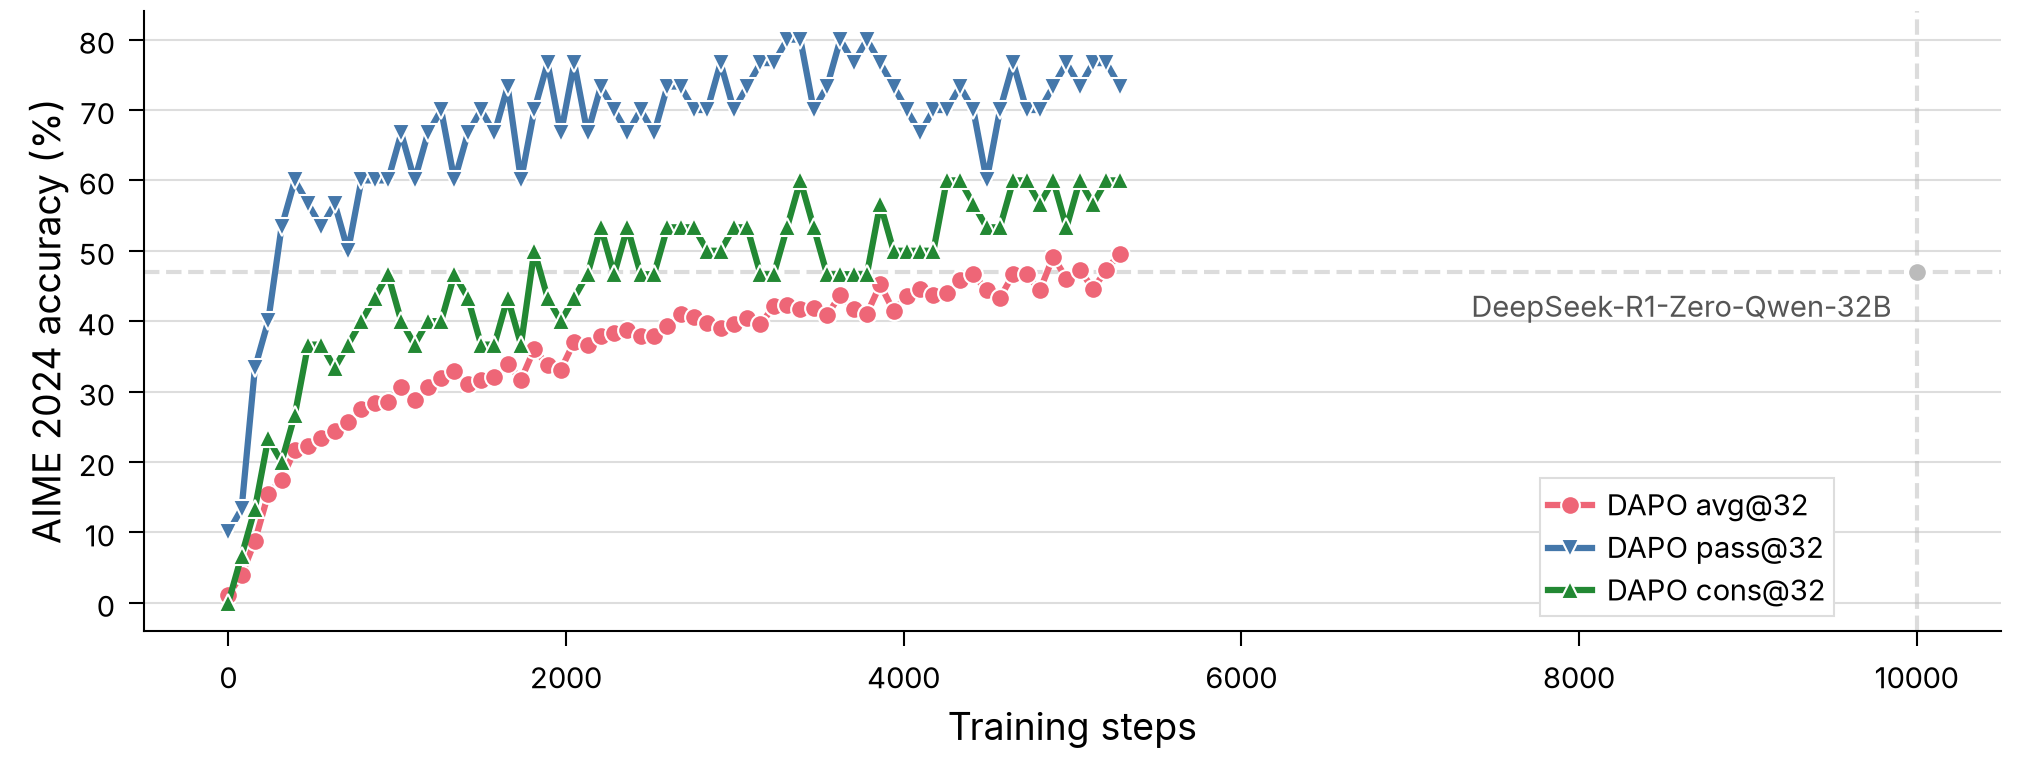
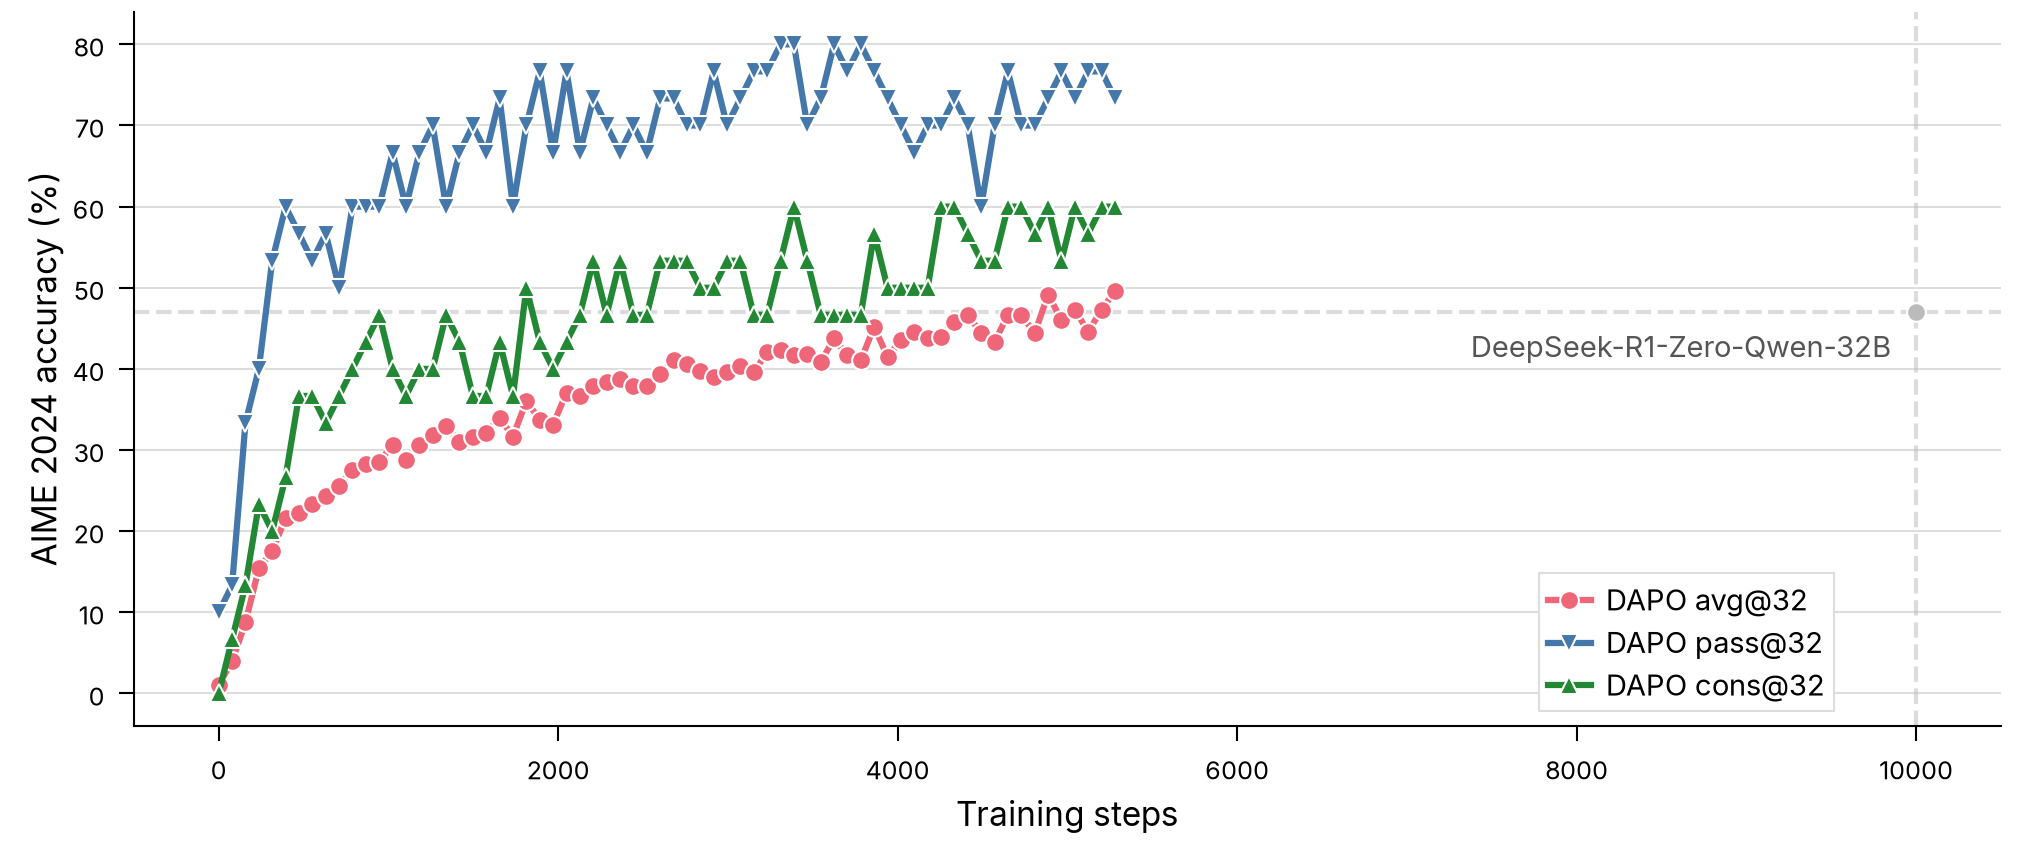
academic-figure: golden-ratio panels, smaller text, on-the-page comparison
- Panel aspects built on the golden ratio: φ:1 (default), φ²:1, 1:φ, plus 1:1
- Axis labels 8 pt, ticks 6 pt, titles 9 pt
- examples/academic-figure-pages.py: each DAPO page with the redrawn figure
  dropped in at \textwidth, next to the original page

diff --git a/examples/academic-figure-pages.py b/examples/academic-figure-pages.py
@@ -1,0 +1,54 @@
+"""Put the redrawn figures into the DAPO paper's pages, next to the original pages.
+
+Each figure is replaced at the width LaTeX would give it (\\textwidth, or 0.75\\textwidth for 1.5 column);
+the text below moves down by however much taller or shorter the new figure is.
+Run after academic-figure.py: uv run -p 3.12 --with pymupdf python examples/academic-figure-pages.py
+"""
+import tempfile
+import urllib.request
+from pathlib import Path
+
+import pymupdf
+
+OUT = Path(__file__).parent / "academic-figure"
+TEXT_LEFT, TEXT_RIGHT = 70.9, 541.1  # the paper's text block, in points
+DPI = 150
+
+# figure number: (page index, top of the caption, fraction of \textwidth)
+FIGURES = {1: (0, 696, 1), 2: (2, 280, 1), 3: (4, 280, 1), 4: (5, 280, 1),
+           5: (6, 280, 1), 6: (7, 274, 0.75), 7: (9, 426, 1)}
+
+
+def figure_top(page, caption_top):
+    backgrounds = [d["rect"] for d in page.get_drawings()
+                   if d.get("fill") == (1.0, 1.0, 1.0) and d.get("color") is None
+                   and d["rect"].height > 80 and d["rect"].y1 <= caption_top]
+    if page.number == 0:  # the first page also has a white box behind the abstract
+        backgrounds = [r for r in backgrounds if r.y0 > 500]
+    return min(r.y0 for r in backgrounds)
+
+
+pdf_path = Path(tempfile.gettempdir()) / "dapo-2503.14476.pdf"
+if not pdf_path.exists():
+    urllib.request.urlretrieve("https://arxiv.org/pdf/2503.14476", pdf_path)
+paper = pymupdf.open(pdf_path)
+
+for n, (index, caption_top, fraction) in FIGURES.items():
+    page = paper[index]
+    page.get_pixmap(dpi=DPI).save(OUT / f"page{n}-before.png")
+
+    top, bottom = figure_top(page, caption_top), caption_top - 4
+    image = OUT / f"fig{n}-after.png"
+    pixmap = pymupdf.Pixmap(str(image))
+    width = (TEXT_RIGHT - TEXT_LEFT) * fraction
+    height = width * pixmap.height / pixmap.width
+    left = (page.rect.width - width) / 2
+
+    out = pymupdf.open()
+    new = out.new_page(width=page.rect.width, height=page.rect.height)
+    new.show_pdf_page(pymupdf.Rect(0, 0, page.rect.width, top), paper, index,
+                      clip=pymupdf.Rect(0, 0, page.rect.width, top))
+    new.insert_image(pymupdf.Rect(left, top, left + width, top + height), filename=str(image))
+    rest = pymupdf.Rect(0, bottom, page.rect.width, page.rect.height)
+    new.show_pdf_page(rest + (0, top + height - bottom, 0, top + height - bottom), paper, index, clip=rest)
+    new.get_pixmap(dpi=DPI).save(OUT / f"page{n}-after.png")

diff --git a/test_paper.py b/test_paper.py
@@ -34,7 +34,7 @@ def test_single_line():
     ax.plot([0, 1], [0, 1])
     ax.set_xlabel("x")
     ax.set_ylabel("y")
-    check(fig, fit_height(fig, ax), 2 / 3)
+    check(fig, fit_height(fig, ax), 0.618)
 
 
 def test_two_panels_shared_legend():
@@ -45,7 +45,7 @@ def test_two_panels_shared_legend():
         ax.set_title("T")
     fig.legend(*axes[0].get_legend_handles_labels(), loc="outside lower center", ncol=2,
                frameon=False, borderaxespad=0)
-    check(fig, fit_height(fig, axes), 2 / 3)
+    check(fig, fit_height(fig, axes), 0.618)
 
 
 def test_grid_with_empty_cell():
@@ -55,7 +55,7 @@ def test_grid_with_empty_cell():
     axes[1, 1].axis("off")
     ratios = fit_height(fig, axes)
     assert len(ratios) == 3
-    check(fig, ratios, 2 / 3)
+    check(fig, ratios, 0.618)
 
 
 def test_heatmap_colorbar():
@@ -83,11 +83,11 @@ def test_long_labels_converge():
     ax.plot([0, 1], [0, 1_000_000])
     ax.set_yticks([0, 500_000, 1_000_000], ["0", "500,000", "1,000,000"], fontsize=12)
     ax.set_ylabel("A very long y-axis label\nthat spans two lines")
-    check(fig, fit_height(fig, ax), 2 / 3)
+    check(fig, fit_height(fig, ax), 0.618)
 
 
 def test_aspect_options():
-    for aspect in (1 / 3, 1.0, 1.5):
+    for aspect in (0.382, 1.0, 1.618):
         fig, ax = plt.subplots(figsize=(WIDTH, 3))
         ax.plot([0, 1], [0, 1])
         check(fig, fit_height(fig, ax, aspect=aspect), aspect)
@@ -100,7 +100,7 @@ def test_ticks_that_change_with_height_converge():
     ax.set_ylim(78, 95)
     ratios = fit_height(fig, ax)
     assert fig.get_figwidth() == 3.0
-    assert abs(ratios[0] - 2 / 3) / (2 / 3) < 0.005
+    assert abs(ratios[0] - 0.618) / 0.618 < 0.005
     assert ax.get_ylim() == (78, 95)
 
 
@@ -108,7 +108,7 @@ def test_shared_axes():
     fig, axes = plt.subplots(2, 2, figsize=(WIDTH, 3), sharex=True, sharey=True)
     for i, ax in enumerate(axes.flat):
         ax.plot([0, 1], [0, i + 1])
-    check(fig, fit_height(fig, axes), 2 / 3)
+    check(fig, fit_height(fig, axes), 0.618)
 
 
 def test_pdf_embeds_inter_as_text(tmp_path):

diff --git a/examples/academic-figure.py b/examples/academic-figure.py
@@ -81,7 +81,7 @@ def fig1():
     ax.set_xlabel("Training steps")
     ax.set_ylabel("AIME 2024 accuracy (%)")
     ax.legend(loc="lower right", bbox_to_anchor=(9600, 0), bbox_transform=ax.get_xaxis_transform())
-    fit_height(fig, ax, aspect=1 / 3)
+    fit_height(fig, ax, aspect=0.382)
     save(fig, "fig1")
 
 
@@ -107,7 +107,7 @@ def fig6():
     ax.set_xlabel("Training steps")
     ax.set_ylabel("AIME avg@32")
     ax.legend(loc="lower right")
-    fit_height(fig, ax, aspect=1 / 3)
+    fit_height(fig, ax, aspect=0.382)
     save(fig, "fig6")
 
 

diff --git a/skills/academic-figure/assets/paper.py b/skills/academic-figure/assets/paper.py
@@ -41,7 +41,7 @@ def _freeze_ticks(panels):
             axis.set_major_locator(FixedLocator([t for t in axis.get_majorticklocs() if lo <= t <= hi]))
 
 
-def fit_height(fig, ax, aspect=2 / 3, iters=10, tol=0.005):
+def fit_height(fig, ax, aspect=0.618, iters=10, tol=0.005):
     """Change only the figure height so each panel's height / width equals `aspect`.
 
     The panel is the data area inside the axes spines; tick labels, axis labels, titles,

diff --git a/skills/academic-figure/SKILL.md b/skills/academic-figure/SKILL.md
@@ -24,17 +24,17 @@ Apply every rule unless the user says otherwise. Order: size → style → plot 
 
 ### Grid and panel aspect
 
-Choose the grid (rows × cols) and the panel aspect together, by judgment, for what this data needs to show. Use 3:2 unless the content needs another aspect. The aspect (width : height) is per panel, not for the whole figure, and is one of four:
+Choose the grid (rows × cols) and the panel aspect together, by judgment, for what this data needs to show. Use the golden ratio φ : 1 (φ ≈ 1.618) unless the content needs another aspect. The aspect (width : height) is per panel, not for the whole figure, and is one of four, all built on φ except the square:
 
 | Aspect | `aspect=` | Typical fit |
 |---|---|---|
-| 6 : 2 | 1 / 3 | a single panel at 1.5- or double-column width (curves, bars) |
-| 3 : 2 | 2 / 3 | curves, bars, histograms (default) |
+| φ² : 1 | 0.382 | a single panel at 1.5- or double-column width (curves, bars) |
+| φ : 1 | 0.618 | curves, bars, histograms (default) |
 | 1 : 1 | 1.0 | heatmap, confusion matrix, embedding |
-| 2 : 3 | 1.5 | content that is taller than wide (e.g. many horizontal bars) |
+| 1 : φ | 1.618 | content that is taller than wide (e.g. many horizontal bars) |
 
 - Ask what the reader must see: slopes and gaps between curves need height, many x categories need width, matrices need square cells.
-- Compare a few layouts before choosing. E.g. two line plots in one column: side by side gives ~1.3 in-wide panels that flatten the curves; stacked 2×1 at 3:2 gives each panel the full width and enough height, so it is better.
+- Compare a few layouts before choosing. E.g. two line plots in one column: side by side gives ~1.3 in-wide panels that flatten the curves; stacked 2×1 at φ : 1 gives each panel the full width and enough height, so it is better.
 - Spread panels evenly; turn off unused cells.
 - Turn on `sharex` / `sharey` when panels plot the same quantity on that axis (`plt.subplots(..., sharex=True, sharey=True)`); inner tick labels hide automatically, and axis labels go on the outer panels only.
 - After rendering, if curves look flattened or labels crowd, change the grid or aspect and re-render.
@@ -46,7 +46,7 @@ Don't compute it. Create the figure at the target width with any height, draw ev
 ```python
 fig, axes = plt.subplots(1, 2, figsize=(3.25, 2))  # after the §2 setup
 ...  # plot, labels, fig.legend, colorbar
-fit_height(fig, axes, aspect=2 / 3)
+fit_height(fig, axes, aspect=0.618)
 fig.savefig(...)  # never bbox_inches="tight"
 ```
 
@@ -66,7 +66,7 @@ plt.style.use("paper.mplstyle")
 
 It needs `tol-colors` (Paul Tol's own palette package; Python 3.10+) in the project's Python; if it is missing, tell the user and ask before installing it.
 
-It sets fonts (Inter for all text and math, STIX Sans for math symbols Inter lacks: labels 9, ticks 7, legend 7, titles 10 pt), left+bottom spines, 0.5 pt axes and ticks, horizontal #DDDDDD gridlines, lines and markers, the `bright` color cycle and `tol.iridescent` colormap (§4), legend frame defaults, constrained layout, 300 dpi, and fonttype 42 (PDF text stays text with Inter embedded, so it renders the same anywhere).
+It sets fonts (Inter for all text and math, STIX Sans for math symbols Inter lacks: labels 8, ticks 6, legend 7, titles 9 pt), left+bottom spines, 0.5 pt axes and ticks, horizontal #DDDDDD gridlines, lines and markers, the `bright` color cycle and `tol.iridescent` colormap (§4), legend frame defaults, constrained layout, 300 dpi, and fonttype 42 (PDF text stays text with Inter embedded, so it renders the same anywhere).
 
 - If text renders in DejaVu Sans, `paper` was not imported before plotting; fix that.
 - No figure title. Panel identifiers (dataset, setting) go in the axes title, never as text inside the axes.

diff --git a/examples/academic-figure.md b/examples/academic-figure.md
@@ -10,6 +10,24 @@ Redraws are made by [`academic-figure.py`](academic-figure.py) from [`academic-f
 uv run -p 3.12 --with matplotlib --with tol-colors python examples/academic-figure.py
 ```
 
+## On the page
+
+Each original page (left) next to the same page with the redrawn figure dropped in at the width LaTeX would give it (`\textwidth`; 1.5 column for Figure 6), with the text below moved to fit. Pages are shown at about half size; click one to open it full size. Made by [`academic-figure-pages.py`](academic-figure-pages.py):
+
+```
+uv run -p 3.12 --with pymupdf python examples/academic-figure-pages.py
+```
+
+| Original | Redrawn |
+|---|---|
+| <a href="academic-figure/page1-before.png"><img src="academic-figure/page1-before.png" width="400"></a> | <a href="academic-figure/page1-after.png"><img src="academic-figure/page1-after.png" width="400"></a> |
+| <a href="academic-figure/page2-before.png"><img src="academic-figure/page2-before.png" width="400"></a> | <a href="academic-figure/page2-after.png"><img src="academic-figure/page2-after.png" width="400"></a> |
+| <a href="academic-figure/page3-before.png"><img src="academic-figure/page3-before.png" width="400"></a> | <a href="academic-figure/page3-after.png"><img src="academic-figure/page3-after.png" width="400"></a> |
+| <a href="academic-figure/page4-before.png"><img src="academic-figure/page4-before.png" width="400"></a> | <a href="academic-figure/page4-after.png"><img src="academic-figure/page4-after.png" width="400"></a> |
+| <a href="academic-figure/page5-before.png"><img src="academic-figure/page5-before.png" width="400"></a> | <a href="academic-figure/page5-after.png"><img src="academic-figure/page5-after.png" width="400"></a> |
+| <a href="academic-figure/page6-before.png"><img src="academic-figure/page6-before.png" width="400"></a> | <a href="academic-figure/page6-after.png"><img src="academic-figure/page6-after.png" width="400"></a> |
+| <a href="academic-figure/page7-before.png"><img src="academic-figure/page7-before.png" width="400"></a> | <a href="academic-figure/page7-after.png"><img src="academic-figure/page7-after.png" width="400"></a> |
+
 ## Figure 1: AIME 2024 scores of DAPO
 
 <img src="academic-figure/fig1-before.png" width="577">
